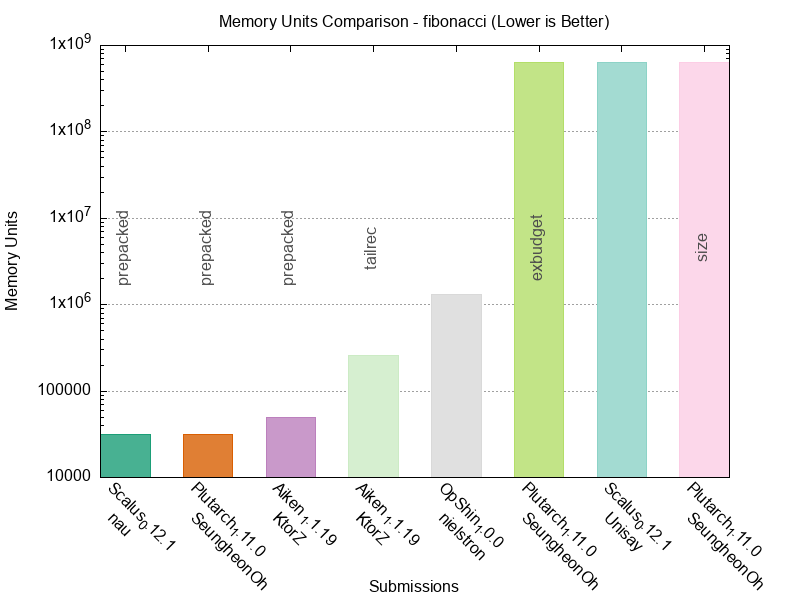
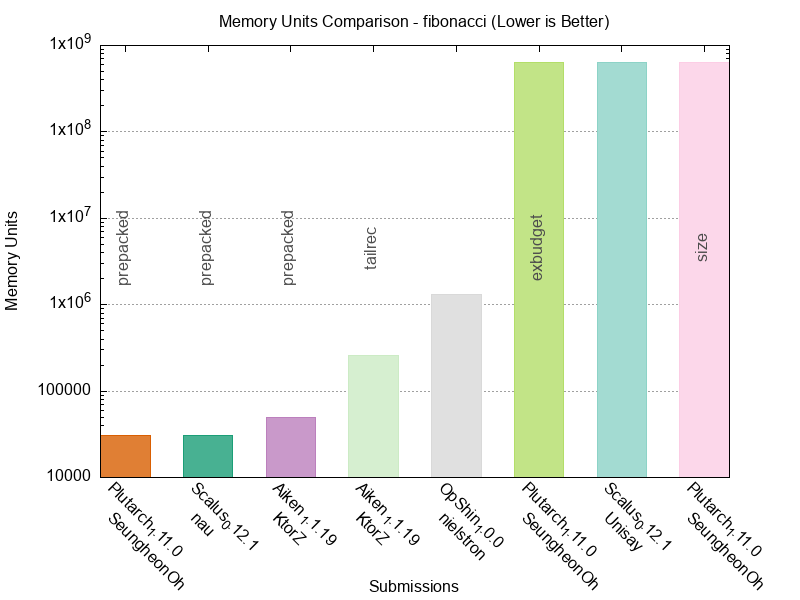
Regenerate HTML reports with optimized fibonacci submissions
Update HTML performance reports and charts to reflect the optimized
fibonacci prepacked submissions using lessThanEqualsInteger builtin.

Changes:
- Updated fibonacci benchmark charts with new metrics
- Refreshed all benchmark HTML reports
- Updated main index with current performance data

diff --git a/report/index.html b/report/index.html
@@ -232,7 +232,7 @@
     </div>
 
     <div class="timestamp">
-        Generated on: 2025-10-23 12:05:25 CEST
+        Generated on: 2025-10-23 13:04:28 CEST
     </div>
     
     <!-- Benchmark Summary Table -->
@@ -589,7 +589,7 @@
                                 <td class="numeric term-value">73</td>
                             </tr>
                             
-                            <tr data-cpu="17845279" data-memory="31792" data-script="118" data-term="28">
+                            <tr data-cpu="16459951" data-memory="30485" data-script="118" data-term="28">
                                 <td>Plutarch</td>
                                 <td>1.11.0</td>
                                 <td>prepacked</td>
@@ -597,14 +597,14 @@
                                 <td>2025-10-23</td>
                                 <td class="numeric">
                                     <span class="tooltip">
-                                        <span class="cpu-value">17.85M</span>
-                                        <span class="tooltiptext">17845279</span>
+                                        <span class="cpu-value">16.46M</span>
+                                        <span class="tooltiptext">16459951</span>
                                     </span>
                                 </td>
                                 <td class="numeric">
                                     <span class="tooltip">
-                                        <span class="memory-value">31.79K</span>
-                                        <span class="tooltiptext">31792</span>
+                                        <span class="memory-value">30.48K</span>
+                                        <span class="tooltiptext">30485</span>
                                     </span>
                                 </td>
                                 <td class="numeric script-value">118</td>
@@ -633,22 +633,22 @@
                                 <td class="numeric term-value">41</td>
                             </tr>
                             
-                            <tr data-cpu="17845279" data-memory="31792" data-script="118" data-term="28">
+                            <tr data-cpu="16459951" data-memory="30485" data-script="118" data-term="28">
                                 <td>Scalus</td>
                                 <td>0.12.1</td>
                                 <td>prepacked</td>
                                 <td>Alexander Nemish</td>
-                                <td>2025-10-21</td>
+                                <td>2025-10-23</td>
                                 <td class="numeric">
                                     <span class="tooltip">
-                                        <span class="cpu-value">17.85M</span>
-                                        <span class="tooltiptext">17845279</span>
+                                        <span class="cpu-value">16.46M</span>
+                                        <span class="tooltiptext">16459951</span>
                                     </span>
                                 </td>
                                 <td class="numeric">
                                     <span class="tooltip">
-                                        <span class="memory-value">31.79K</span>
-                                        <span class="tooltiptext">31792</span>
+                                        <span class="memory-value">30.48K</span>
+                                        <span class="tooltiptext">30485</span>
                                     </span>
                                 </td>
                                 <td class="numeric script-value">118</td>

diff --git a/report/benchmarks/fibonacci.html b/report/benchmarks/fibonacci.html
@@ -175,7 +175,7 @@
     </div>
 
     <div class="timestamp">
-        Generated on: 2025-10-23 12:05:11 CEST
+        Generated on: 2025-10-23 13:04:13 CEST
     </div>
     
     <div class="benchmark-section">
@@ -220,30 +220,30 @@
             </thead>
             <tbody>
                 <tr>
-                    <td>2025-10-21T20:12:40Z</td>
-                    <td>Scalus</td>
-                    <td>0.12.1</td>
-                    <td>prepacked</td>
-                    <td>Alexander Nemish</td>
-                    <td class="numeric">17845279</td>
-                    <td class="numeric">31792</td>
-                    <td class="numeric">118</td>
-                    <td class="numeric">28</td>
-                    <td><a href="https://github.com/IntersectMBO/UPLC-CAPE/blob/main/submissions/fibonacci/Scalus_0.12.1_nau_prepacked/source/README.md" target="_blank" rel="noopener">📁</a></td>
-                    <td><a href="https://github.com/IntersectMBO/UPLC-CAPE/blob/main/submissions/fibonacci/Scalus_0.12.1_nau_prepacked/fibonacci.uplc" target="_blank" rel="noopener">🔗</a></td>
-                </tr>
-                <tr>
-                    <td>2025-10-23T10:04:40Z</td>
+                    <td>2025-10-23T10:56:48Z</td>
                     <td>Plutarch</td>
                     <td>1.11.0</td>
                     <td>prepacked</td>
                     <td>SeungheonOh</td>
-                    <td class="numeric">17845279</td>
-                    <td class="numeric">31792</td>
+                    <td class="numeric">16459951</td>
+                    <td class="numeric">30485</td>
                     <td class="numeric">118</td>
                     <td class="numeric">28</td>
                     <td><a href="https://github.com/IntersectMBO/UPLC-CAPE/blob/main/submissions/fibonacci/Plutarch_1.11.0_SeungheonOh_prepacked/source/README.md" target="_blank" rel="noopener">📁</a></td>
                     <td><a href="https://github.com/IntersectMBO/UPLC-CAPE/blob/main/submissions/fibonacci/Plutarch_1.11.0_SeungheonOh_prepacked/fibonacci.uplc" target="_blank" rel="noopener">🔗</a></td>
+                </tr>
+                <tr>
+                    <td>2025-10-23T10:58:24Z</td>
+                    <td>Scalus</td>
+                    <td>0.12.1</td>
+                    <td>prepacked</td>
+                    <td>Alexander Nemish</td>
+                    <td class="numeric">16459951</td>
+                    <td class="numeric">30485</td>
+                    <td class="numeric">118</td>
+                    <td class="numeric">28</td>
+                    <td><a href="https://github.com/IntersectMBO/UPLC-CAPE/blob/main/submissions/fibonacci/Scalus_0.12.1_nau_prepacked/source/README.md" target="_blank" rel="noopener">📁</a></td>
+                    <td><a href="https://github.com/IntersectMBO/UPLC-CAPE/blob/main/submissions/fibonacci/Scalus_0.12.1_nau_prepacked/fibonacci.uplc" target="_blank" rel="noopener">🔗</a></td>
                 </tr>
                 <tr>
                     <td>2025-10-18T12:29:30Z</td>

diff --git a/report/benchmarks/factorial.html b/report/benchmarks/factorial.html
@@ -175,7 +175,7 @@
     </div>
 
     <div class="timestamp">
-        Generated on: 2025-10-23 12:05:00 CEST
+        Generated on: 2025-10-23 13:04:02 CEST
     </div>
     
     <div class="benchmark-section">

diff --git a/report/benchmarks/factorial_naive_recursion.html b/report/benchmarks/factorial_naive_recursion.html
@@ -175,7 +175,7 @@
     </div>
 
     <div class="timestamp">
-        Generated on: 2025-10-23 12:05:05 CEST
+        Generated on: 2025-10-23 13:04:08 CEST
     </div>
     
     <div class="benchmark-section">

diff --git a/report/benchmarks/fibonacci_naive_recursion.html b/report/benchmarks/fibonacci_naive_recursion.html
@@ -175,7 +175,7 @@
     </div>
 
     <div class="timestamp">
-        Generated on: 2025-10-23 12:05:17 CEST
+        Generated on: 2025-10-23 13:04:19 CEST
     </div>
     
     <div class="benchmark-section">

diff --git a/report/benchmarks/two-party-escrow.html b/report/benchmarks/two-party-escrow.html
@@ -175,7 +175,7 @@
     </div>
 
     <div class="timestamp">
-        Generated on: 2025-10-23 12:05:22 CEST
+        Generated on: 2025-10-23 13:04:25 CEST
     </div>
     
     <div class="benchmark-section">
